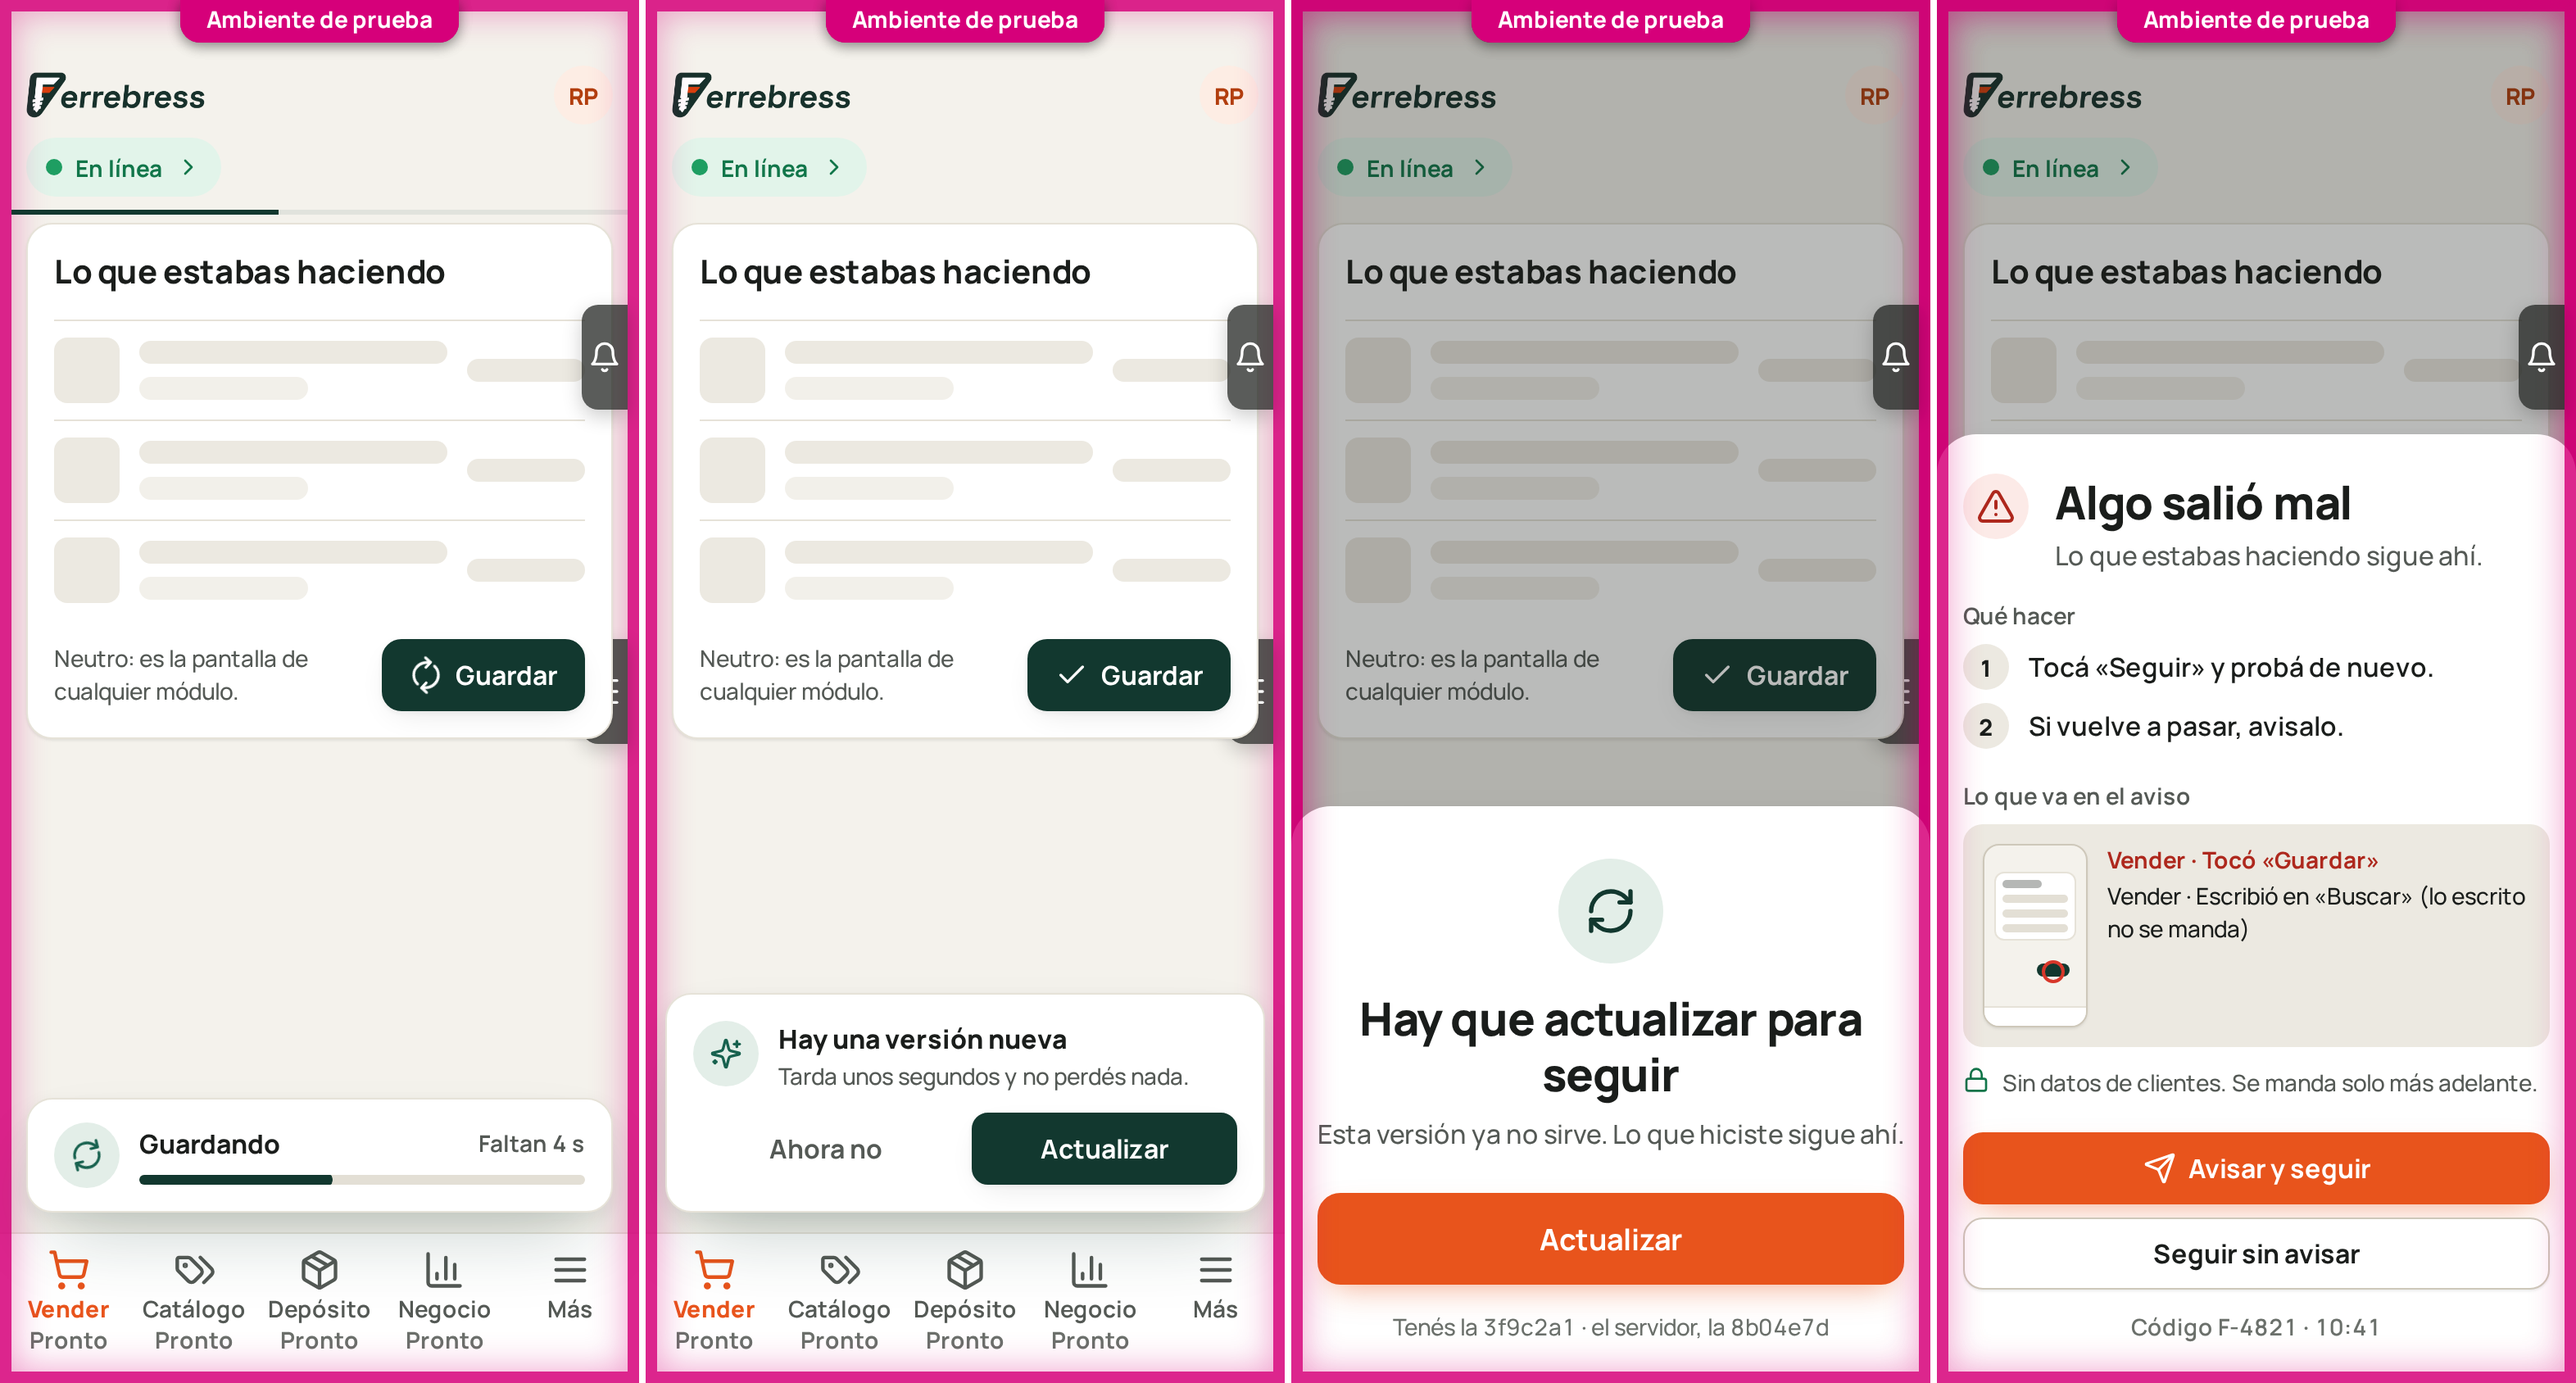
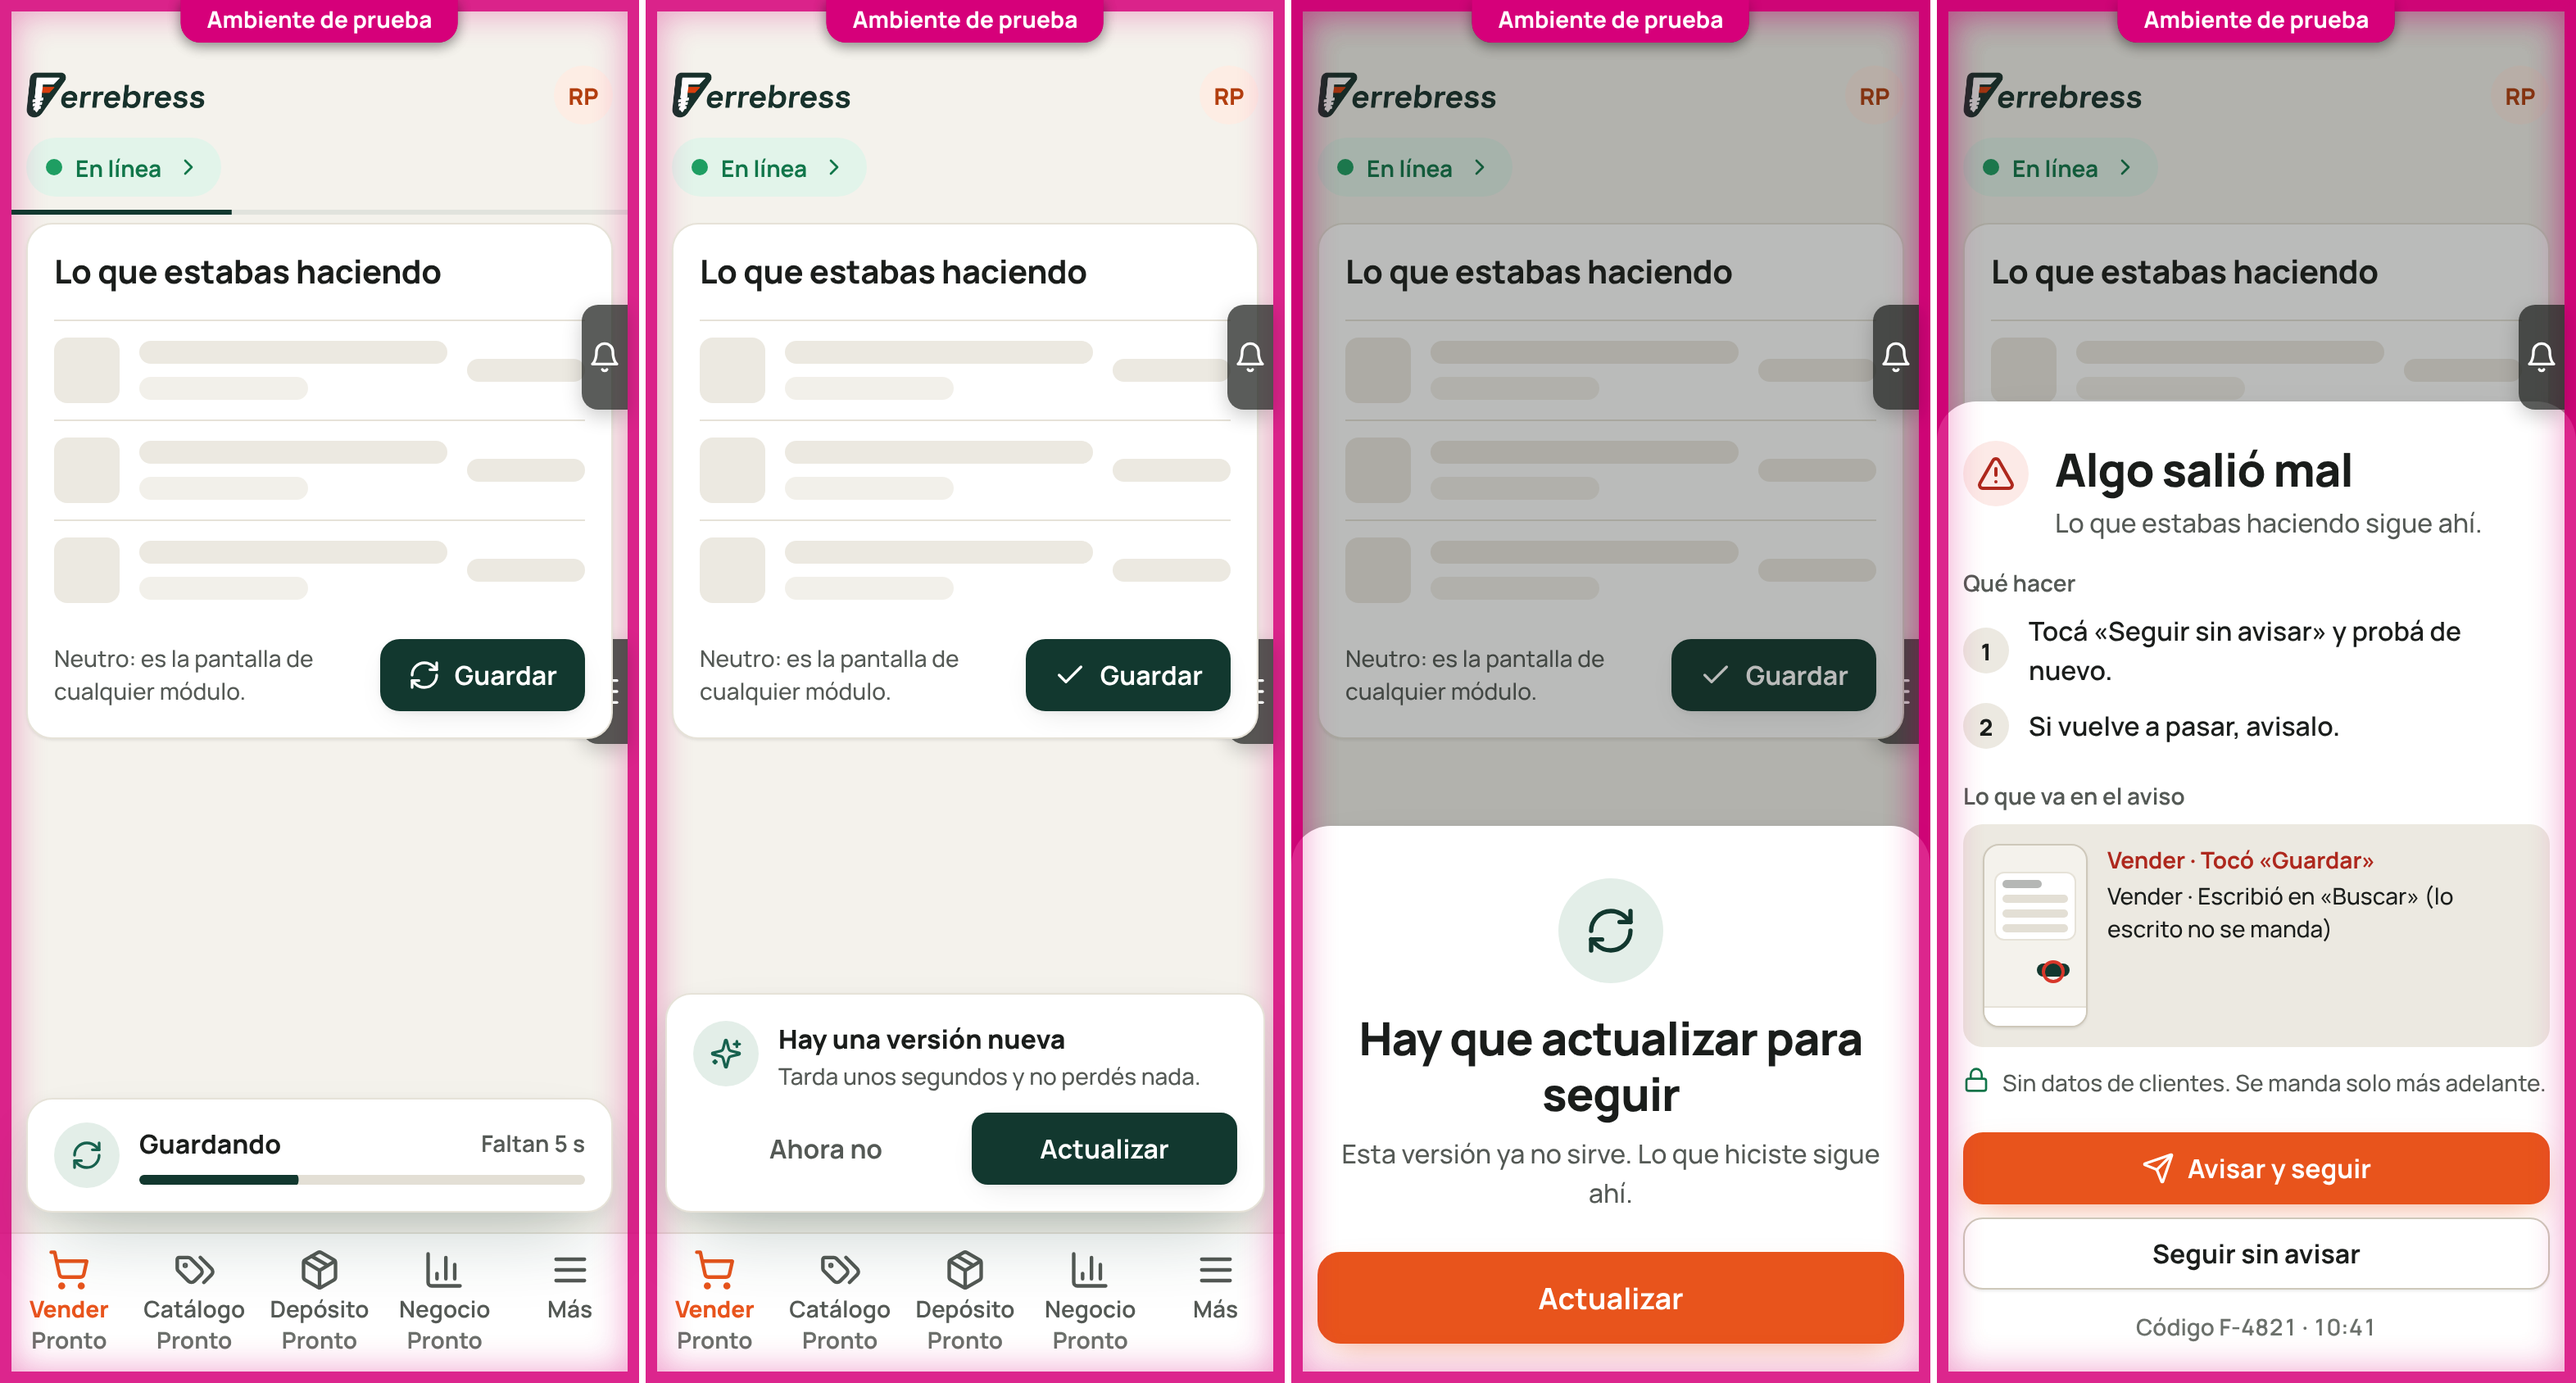
Lo que decidió Carlos sobre los avisos del marco
«Algo salió mal» avisa y vuelve con un solo botón y muestra un código del error,
para nombrarlo si alguien pregunta; queda como R9.5. El bloqueo de «Hay que
actualizar» no muestra versiones, porque con el botón alcanza, y «Qué hacer»
nombra el botón que existe. La maqueta final y sus capturas quedan así.

Claude-Session: https://claude.ai/code/session_01BmbhiYJAfQvWshUgYzn7JL

diff --git a/docs/design/mockups/app-notices/final/index.html b/docs/design/mockups/app-notices/final/index.html
@@ -52,7 +52,6 @@
   .bloqueo-titulo { margin: 0 0 8px; }
   .bloqueo-texto { margin: 0 0 24px; color: var(--texto-2); }
   .bloqueo-boton { width: 100%; }
-  .bloqueo-version { margin: 16px 0 0; font-size: 14px; line-height: 20px; color: var(--texto-3); }
 
   /* =================== 4 · Algo salió mal (00 · R9): diálogo que muestra qué se manda =================== */
   .error-dialogo { position: fixed; z-index: 31; left: 50%; top: 50%; width: 600px; margin: -282px 0 0 -300px; padding: 28px; border-radius: var(--r-hoja); background: var(--superficie); box-shadow: var(--sombra-3); }
@@ -161,7 +160,6 @@
   <p class="t-cuerpo bloqueo-texto" id="bloqueo-d"><span class="largo">Esta versión ya no se entiende con el servidor. Actualizar tarda unos segundos y lo que hiciste sigue ahí.</span><span class="corto">Esta versión ya no sirve. Lo que hiciste sigue ahí.</span></p>
   <button type="button" class="btn btn-accion grande bloqueo-boton" id="bloqueo-si" data-key="a" data-enter><span class="gira-ic"><i class="i" data-i="refresh-cw"></i></span>Actualizar<span class="kbd">A</span></button>
   <!-- La versión es el commit: su comienzo (7 letras) y la fecha en que se publicó, en el formato de fecha de cada persona (00 · R8.5). -->
-  <p class="bloqueo-version"><span class="largo">Tenés la versión <data value="3f9c2a1">3f9c2a1</data>, del 12/10 · la del servidor es la <data value="8b04e7d">8b04e7d</data>, del 27/10</span><span class="corto">Tenés la 3f9c2a1 · el servidor, la 8b04e7d</span></p>
 </section>
 
 <!-- 4 · Algo salió mal -->
@@ -175,7 +173,7 @@
   </div>
   <p class="t-etiqueta error-rotulo">Qué hacer</p>
   <ol class="error-hacer">
-    <li class="error-hacer-paso"><span class="largo">Tocá «Seguir» y probá de nuevo lo que estabas haciendo.</span><span class="corto">Tocá «Seguir» y probá de nuevo.</span></li>
+    <li class="error-hacer-paso"><span class="largo">Tocá «Seguir sin avisar» y probá de nuevo lo que estabas haciendo.</span><span class="corto">Tocá «Seguir sin avisar» y probá de nuevo.</span></li>
     <li class="error-hacer-paso"><span class="largo">Si vuelve a pasar, avisalo: así se arregla.</span><span class="corto">Si vuelve a pasar, avisalo.</span></li>
   </ol>
   <p class="t-etiqueta error-rotulo">Lo que va en el aviso</p>

diff --git a/docs/design/mockups/app-notices/final/changes.md b/docs/design/mockups/app-notices/final/changes.md
@@ -11,22 +11,15 @@ mal» con Alt apretado). El selector de la maqueta (la lengüeta con la campana)
 
 ## Por directivas de Carlos
 
-- Ninguna: Carlos eligió la variante 1 tal cual («me gusta más 1. Evolución»). La idea, los
-  lugares, los colores y el movimiento son los del director.
-
-## Fuera del capítulo, se dejan y los decide Carlos
-
+- **La variante 1 · Evolución**, con su idea, sus lugares, sus colores y su movimiento.
 - **«Avisar y seguir» en un solo botón:** avisa y vuelve a lo que se estaba haciendo; «Seguir sin
-  avisar» es el secundario. R9.1 pide «un botón para avisarlo»; juntarlo con volver es del director.
-- **El código del error** («Código F-4821 · 10:41»): no está en R9. La hora va en el formato de cada
-  persona (R8.5).
-- **Las versiones en el bloqueo:** R5.5 pide solo «Hay que actualizar para seguir» y «Actualizar».
-  Como la versión de la aplicación es el commit y no un número como «1.14», la propuesta es mostrar
-  el comienzo del commit (siete letras) y la fecha en que se publicó, que es lo que una persona
-  puede leer y comparar: en la computadora «Tenés la versión 3f9c2a1, del 12/10 · la del servidor
-  es la 8b04e7d, del 27/10»; en el celular «Tenés la 3f9c2a1 · el servidor, la 8b04e7d». La fecha
-  va en el formato de cada persona (R8.5). Si Carlos no quiere versiones en el bloqueo, se saca el
-  renglón entero.
+  avisar» es el secundario.
+- **El código del error** («Código F-4821 · 10:41»), con la hora en el formato de cada persona
+  (R8.5).
+- **El bloqueo no muestra versiones:** solo «Hay que actualizar para seguir», qué pasa y
+  «Actualizar».
+- **«Qué hacer» nombra el botón que existe:** «Tocá «Seguir sin avisar» y probá de nuevo lo que
+  estabas haciendo».
 
 ## Por las reglas aprobadas
 

diff --git a/docs/chapters/00-app/rules.md b/docs/chapters/00-app/rules.md
@@ -139,6 +139,9 @@ Vale solo en la computadora: en el celular no hay atajos ni marca.
 
 - **R9.1** Si algo de la aplicación falla sin que la persona pueda hacer nada, se muestra «Algo
   salió mal», con qué hacer para seguir y un botón para avisarlo.
+- **R9.5** «Algo salió mal» tiene dos botones: «Avisar y seguir», que guarda el aviso y vuelve a lo
+  que se estaba haciendo, y «Seguir sin avisar». Muestra un código del error y la hora, para
+  nombrarlo si alguien pregunta.
 - **R9.4** El aviso lleva una captura de la pantalla y los últimos pasos que se hicieron (qué se
   tocó y en qué pantalla), sin datos de clientes ni la sesión de la persona.
 - **R9.2** Mientras no exista el módulo de mejoras y errores, el aviso guarda qué pasó para mandarlo
